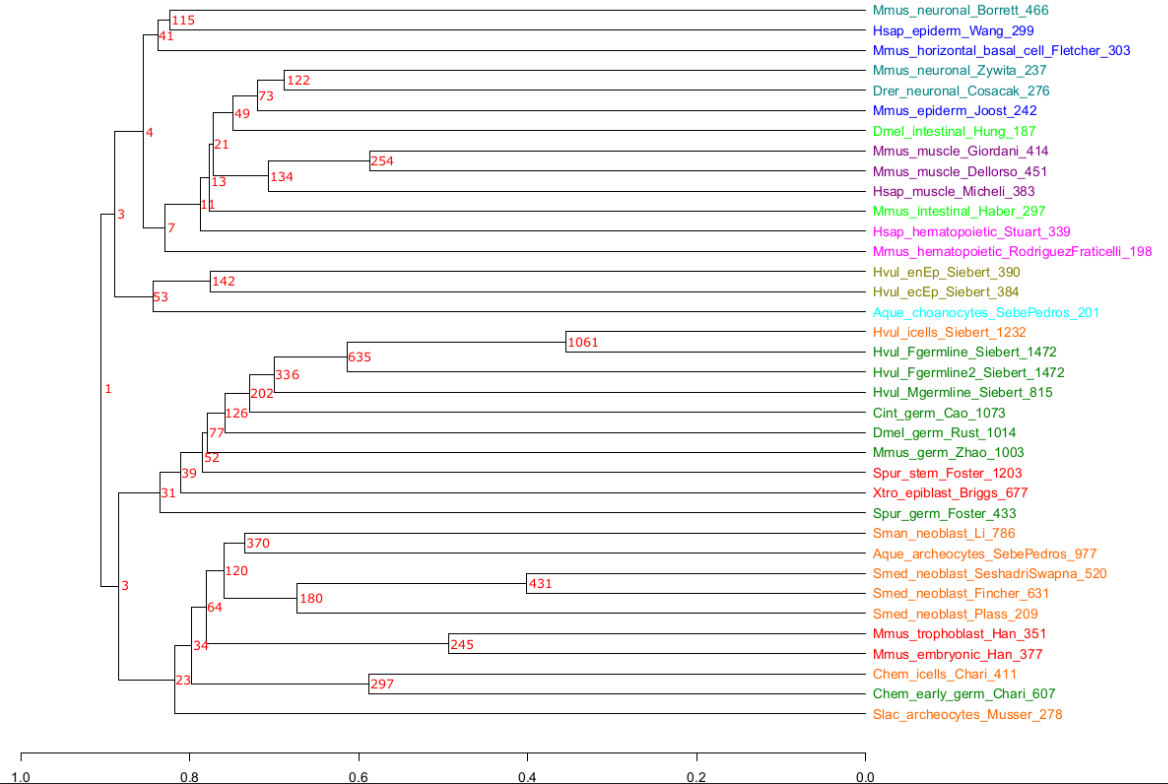
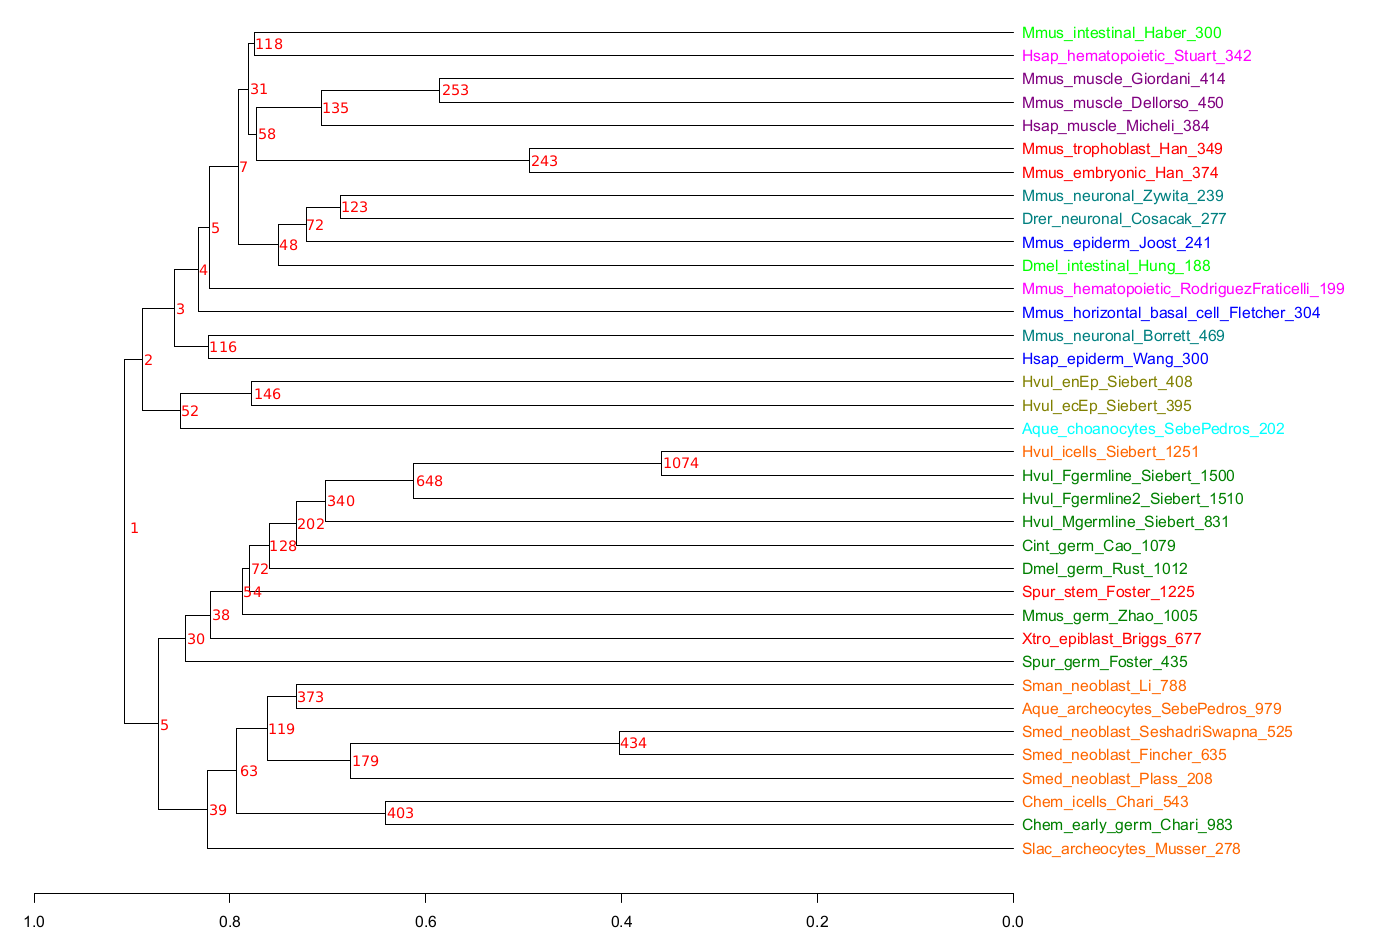
Update readme.md

diff --git a/README.md b/README.md
@@ -12,17 +12,18 @@ The analysis is separated in 3 main steps:
 
 # Dataset gathering and single-cell analysis
 
-In order to study the evolution of stem cells, we selected some high quality single-cell RNAseq studies which contained some well defined stem cells. This following graph sum up the diversity of the stem cells we were able to analyze:
+In order to study the evolution of stem cells, we selected some high quality single-cell RNAseq studies which contained some well defined stem cells. This following graph sum up the diversity of the stem cells and species we were able to analyze:
 
 ![alt text](assets/stem_cells_diversity.png)
+![alt text](assets/stem_cells_diversity_phylogeny.png)
 
 Each single-cell RNAseq datasets were then re-analyzed from the raw count matrix using the [Seurat](https://github.com/satijalab/seurat) package from R. The analysis consisted in the identification of the cluster of interest (the stem cell cluster) using the gene markers as described in the original paper of each dataset, and the obtention of transcript preferentially expressed in the chosen cluster.
 
-The single-cell RNAseq analysis can be described by the folowwing steps:
+The single-cell RNAseq analysis can be described by the folowing steps:
 
 - Cells filtering based on filter described in the original paper.
 - Normalization and scaling.
-- Selection of number of PCA and number of clusters.s
+- Selection of number of PCA and number of clusters.
 - Identification of cluster of interest using gene markers.
 - Selection of preferentially expressed transcript using wilcoxon test.
 
@@ -30,6 +31,8 @@ At the end of this first step, we obtain a list of transcript that are preferent
 
 # Orthology inference and clustering of the stem cells
 
-Each obtained transcripts are then filtered based on statistic significance and translated in order to obtain their protein sequences. Orthofinder is used on this list of protein sequences to obtain orthogroups. Based on the infered orthogroups, a binary matrix of absence/presence of orthogroups for each dataset is obtained. Clustering is performed using the Jaccard distance for binary data, the clustering is represented as a dendrogram for which the number of common orthogroups per branch is shown in red.
+Each obtained transcripts are then filtered based on statistic significance and translated in order to obtain their protein sequences. Orthofinder is used on this list of protein sequences to obtain orthogroups. Based on the infered orthogroups, a binary matrix of absence/presence of orthogroups for each dataset is obtained. Clustering is performed using the Jaccard distance for binary data, the clustering is represented as a dendrogram for which the number of common orthogroups per branch is shown in red. The following figure shows the final clustering obtained after filtering stem cells containing a too low amount of orthogroups:
 
 ![alt text](assets/final_clustering.png)
+
+Further enrichment analysis were performed using [clusterProfiler](https://guangchuangyu.github.io/software/clusterProfiler/) and the [MSigDB](https://www.gsea-msigdb.org/gsea/msigdb/) database based on the genes from the orthogroups, translated as murine genes.
